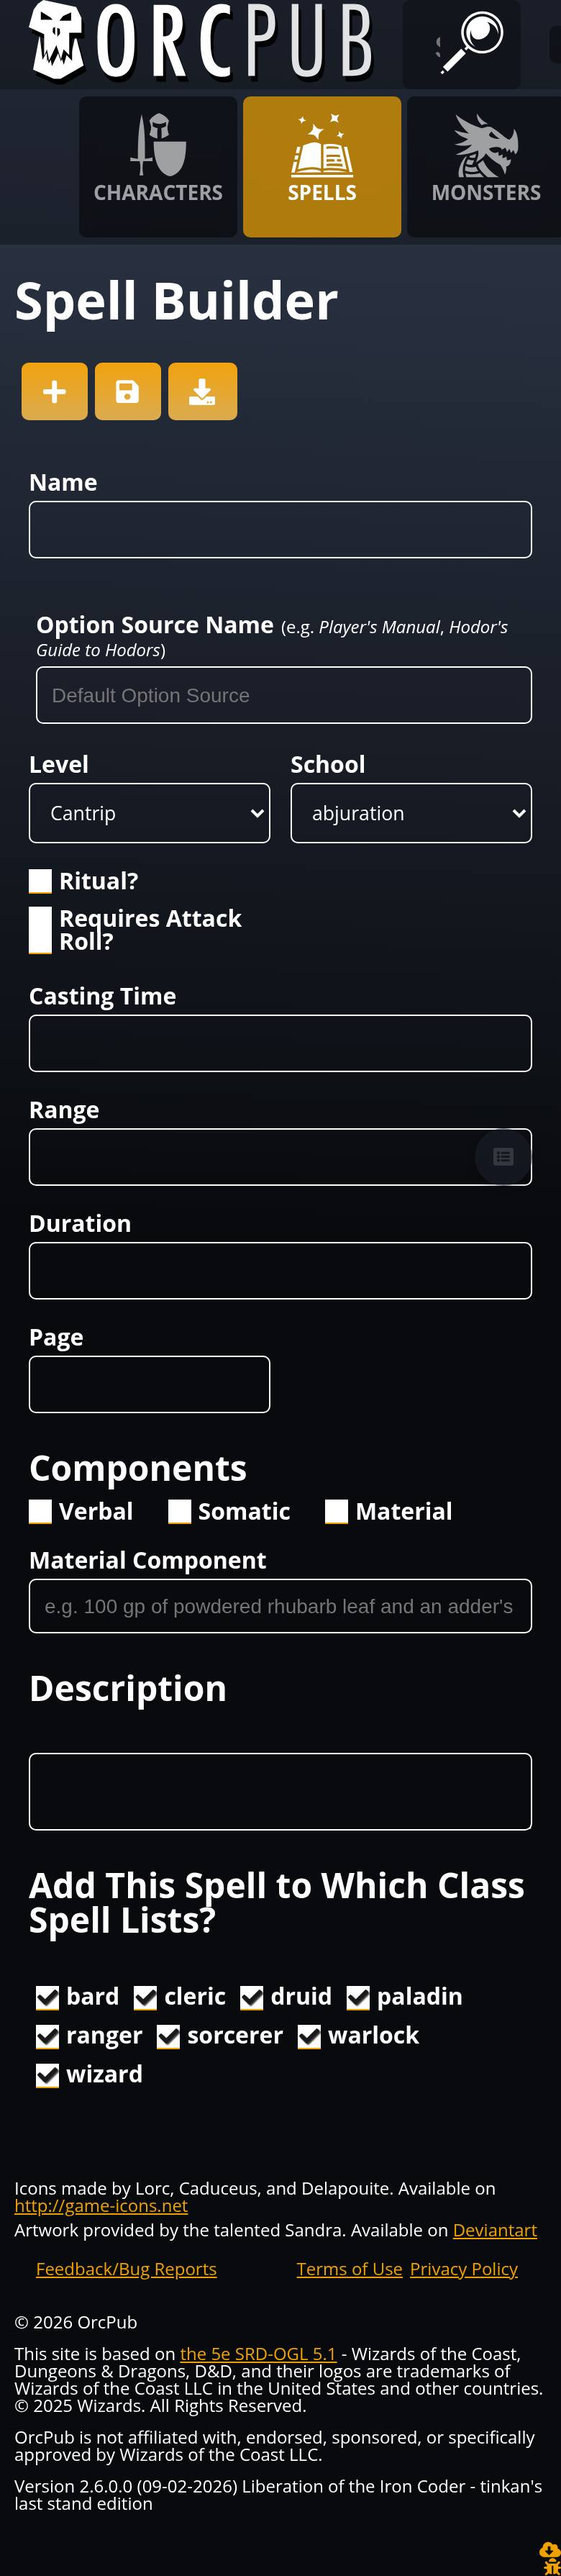
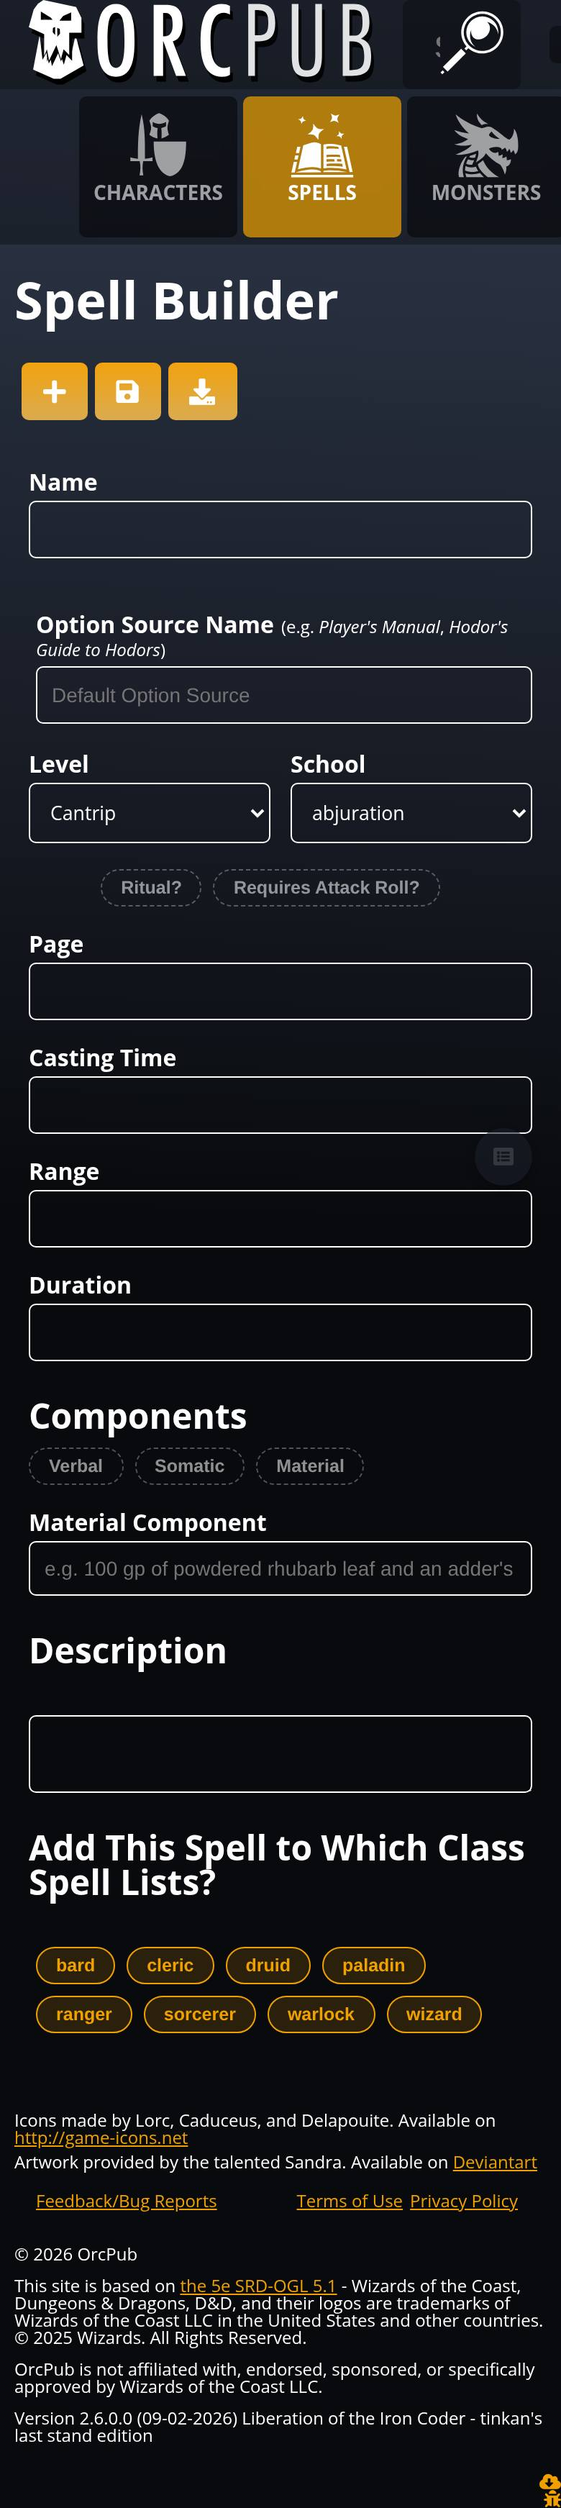
Chips for every toggle; mobile flag row; Page back beside the flags
Page returns to the first row's fourth track. Moving it to trail the stats was
me over-reading a musing about transcription order: it is a minor, optional
field that is not stat-block content, and the squared row reads better than the
empty track its absence leaves. The order of the fields that ARE stat-block
content is unaffected either way.

Every toggle is a chip now. Loose checkbox clusters were the last control
speaking a different visual language — the form says a thing carrying a value
is orange (the add-bar, select.set, the :multi-enum toggles) and eight ragged
class checkboxes did not. :boolean, :multi-enum entries and the spell-list
widget all render the same chip.

The distinction that had to survive it: a toggle chip answers "is this set?", an
add-bar chip answers "do you want to add this?" — same shape, opposite
question. .chip-toggle is muted unset and orange set; a bare .chip is the
action. Chipping every checkbox reintroduced that ambiguity everywhere except
:multi-enum, which already had the rule.

Two things it surfaced rather than caused:

- The spell-list chips read as all-on because they ARE: a new spell defaults to
  all eight class lists. The bespoke form drew the same state as eight ticked
  checkboxes and it was easy to miss. Behaviour unchanged, legibility better.
- The control metric had to follow the representation. It counted
  input/select/textarea plus glyph checkboxes; chips have no glyph, so the
[…]

diff --git a/test/e2e/spell-builder.js b/test/e2e/spell-builder.js
@@ -13,33 +13,15 @@ const path = require('path');
 const fs = require('fs');
 const { chromium } = require('playwright');
 const { BASE, SHOTS, findChrome, checker, dbAt, controlFor, fill, clickText,
-        dismissCookieBar } = require('./lib');
+        dismissCookieBar, chipIsOn, chipClick } = require('./lib');
 
 const SOURCE = 'Spell Pin';
 const NAME = 'Tideward';
 
-// A labelled checkbox: the app renders an <i> glyph plus a text span, in both the bespoke form
-// (comps/labeled-checkbox) and the converted one (the :boolean field renders the same component).
-const toggle = (page, label) => page.evaluate((t) => {
-  const vis = e => { const r = e.getBoundingClientRect(); return r.width > 0 && r.height > 0; };
-  const span = [...document.querySelectorAll('span')]
-    .find(e => e.children.length === 0 && e.textContent.trim() === t && vis(e));
-  if (!span) return false;
-  (span.closest('.pointer') || span.parentElement).click();
-  return true;
-}, label);
-
-const isOn = (page, label) => page.evaluate((t) => {
-  const span = [...document.querySelectorAll('span')]
-    .find(e => e.children.length === 0 && e.textContent.trim() === t);
-  if (!span) return null;
-  const row = span.parentElement;
-  const glyph = row && row.querySelector('i.fa-check');
-  if (!glyph) return null;
-  // "on" is drawn by swapping the glyph's colour classes, not by a checked attribute
-  return /black/.test(glyph.className) && !/transparent/.test(glyph.className);
-}, label);
-
+// Toggles are chips (lib.js/chipIsOn, chipClick). They were glyph checkboxes when this pin was
+// written against the bespoke form; the representation changed deliberately, so the helpers did
+// too. What the pin asserts is unchanged: the toggle is present, starts off, turns on, and stores
+// a real boolean.
 async function choose(page, label, rx) {
   const sel = await controlFor(page, label);
   if (!sel) return false;
@@ -71,8 +53,8 @@ async function choose(page, label, rx) {
       check(`field present: ${label}`, !!(await controlFor(page, label)));
     }
     for (const label of ['Ritual?', 'Requires Attack Roll?']) {
-      check(`toggle present: ${label}`, (await isOn(page, label)) !== null);
-      check(`and it starts OFF: ${label}`, (await isOn(page, label)) === false);
+      check(`toggle present: ${label}`, (await chipIsOn(page, label)) !== null);
+      check(`and it starts OFF: ${label}`, (await chipIsOn(page, label)) === false);
     }
     check('the bespoke spell-list widget is still here',
           /which class spell lists/i.test(await page.locator('#app').innerText()));
@@ -86,9 +68,9 @@ async function choose(page, label, rx) {
     check('filled Duration', await fill(page, 'Duration', '1 minute'));
     check('filled Description', await fill(page, 'Description', 'A ward of cold seawater.'));
 
-    check('toggled Ritual on', await toggle(page, 'Ritual?'));
+    check('toggled Ritual on', await chipClick(page, 'Ritual?'));
     await page.waitForTimeout(400);
-    check('and it now reads ON', (await isOn(page, 'Ritual?')) === true);
+    check('and it now reads ON', (await chipIsOn(page, 'Ritual?')) === true);
 
     await page.screenshot({ path: path.join(SHOTS, 'spell-builder-filled.jpg'),
                             fullPage: true, type: 'jpeg', quality: 72 });

diff --git a/test/e2e/lib.js b/test/e2e/lib.js
@@ -170,4 +170,27 @@ async function pickFromAnySelect(page, rx) {
   return false;
 }
 
-module.exports = { BASE, SHOTS, findChrome, checker, dbAt, controlFor, fill, clickText, clickTab, fillEffectBonus, dismissCookieBar, pickFromAnySelect };
+// Toggles are CHIPS: a button whose text is its label, carrying `chip-on` when set. Replaces the
+// old glyph-checkbox reading (an <i class="fa-check"> whose colour classes encoded the state).
+async function chipIsOn(page, label) {
+  return page.evaluate((t) => {
+    const vis = e => { const r = e.getBoundingClientRect(); return r.width > 0 && r.height > 0; };
+    const b = [...document.querySelectorAll('.chip')].find(e => e.textContent.trim() === t && vis(e));
+    if (!b) return null;
+    return b.classList.contains('chip-on');
+  }, label);
+}
+
+async function chipClick(page, label) {
+  const ok = await page.evaluate((t) => {
+    const vis = e => { const r = e.getBoundingClientRect(); return r.width > 0 && r.height > 0; };
+    const b = [...document.querySelectorAll('.chip')].find(e => e.textContent.trim() === t && vis(e));
+    if (!b) return false;
+    b.click();
+    return true;
+  }, label);
+  if (ok) await page.waitForTimeout(400);
+  return ok;
+}
+
+module.exports = { BASE, SHOTS, findChrome, checker, dbAt, controlFor, fill, clickText, clickTab, fillEffectBonus, dismissCookieBar, pickFromAnySelect, chipIsOn, chipClick };

diff --git a/test/e2e/builder-gallery.js b/test/e2e/builder-gallery.js
@@ -55,7 +55,10 @@ const ONLY = (process.env.ONLY || '').split(',').filter(Boolean);
     const controls = await page.evaluate(() => {
       const vis = e => { const r = e.getBoundingClientRect(); return r.width > 0 && r.height > 0; };
       const fields = [...document.querySelectorAll('#app input, #app select, #app textarea')].filter(vis);
-      const toggles = [...document.querySelectorAll('#app i.fa-check')].filter(vis);
+      // toggles are drawn two ways: a glyph checkbox (the hand-written builders) and a chip (the
+      // generated ones). Count both, or the metric reports a representation change as controls
+      // disappearing — it did, 24 -> 11.
+      const toggles = [...document.querySelectorAll('#app i.fa-check, #app .chip')].filter(vis);
       return fields.length + toggles.length;
     });
     // HEIGHT, not just control count. A conversion that stacks every field into one page-wide

diff --git a/test/e2e/mobile-compare.js b/test/e2e/mobile-compare.js
@@ -41,7 +41,7 @@ const BUILDERS = ONLY.length ? ONLY
       // wider than the viewport and clipped, and counting it reported 32 overflowing elements on
       // every builder — a number that says nothing about the form.
       const form = document.querySelector('#app .p-20.main-text-color') || app;
-      const controls = [...form.querySelectorAll('input, select, textarea')].filter(vis);
+      const controls = [...form.querySelectorAll('input, select, textarea, .chip')].filter(vis);
       // anything sticking out past the viewport is a sideways scroll on a phone
       const over = [...form.querySelectorAll('*')].filter(e => {
         const r = e.getBoundingClientRect();

diff --git a/docs/kb/builder-conversion-gallery.md b/docs/kb/builder-conversion-gallery.md
@@ -495,10 +495,15 @@ and reports what actually breaks on a narrow screen — horizontal overflow, tou
 
 | at 390px | bespoke | generated |
 |---|---:|---:|
-| spell | 1587px, 9 controls | 1790px, 10 |
-| language | 905px | **911px** |
+| spell | 1587px | **1743px** |
+| language | 905px | 911px |
 | draconic ancestry | 1229px | **1202px** |
 | horizontal overflow, all builders | 0 | 0 |
+
+**Two mobile fixes came from looking at it**: the flags now sit **side by side** on a phone rather
+than stacked — a two-word toggle pair reads better across than down on a narrow screen — and only
+`:enum` pairs at 390px, so there are no lone half-width boxes among full-width ones. Both dropped
+the spell form from 1855px to 1743px.
 
 The spell form is **~200px taller on a phone**, and it is accountable rather than mysterious: the
 **Page field** (~85px), a **label on the Material Component box** that the hand-written form left
@@ -530,12 +535,35 @@ were there — the pin asserts 13 / 29 / 29 options — and **nothing on screen 
 fair reading of "I thought we were offering dropdowns". `:combo` inputs now carry the select's
 chevron and the padding to clear it.
 
-### Stat-block order beats a square row
+### Every toggle is a chip
 
-Page was moved up beside the flags to fill the first row's fourth track. That interrupts the order
-an author transcribes in — a stat block reads level/school, casting time, range, components,
-duration — and a page reference is not part of it. **Page trails the stats now.** The row is less
-square and the form is easier to type into from a book, which is the trade worth taking.
+Loose checkbox clusters were the last control still speaking a different visual language. The form
+says *a thing carrying a value is orange* — the add-bar, `select.set`, the `:multi-enum` toggles —
+and eight ragged class checkboxes under *Add This Spell to Which Class Spell Lists?* did not. Every
+`:boolean`, every `:multi-enum` entry and the spell-list widget now render as the same chip.
+
+**The distinction that has to survive it:** a toggle chip answers *"is this set?"*, an add-bar chip
+answers *"do you want to add this?"* — same shape, opposite question. `.chip-toggle` is muted when
+unset and orange when set; a bare `.chip` is the action. Making every checkbox a chip reintroduced
+that ambiguity everywhere except `:multi-enum`, which already had the rule.
+
+Two things this surfaced rather than caused:
+
+- **The spell-list chips read as all-on because they are.** A new spell defaults to all eight class
+  lists. The bespoke form drew the same state as eight ticked checkboxes and it was easy to miss;
+  the chips make it obvious. Behaviour unchanged, legibility better.
+- **The control metric had to follow the representation.** It counted `input, select, textarea` and
+  glyph checkboxes; chips have no glyph, so the count read **24 → 11** the moment toggles changed
+  shape. It counts chips too now. That is the third time a metric on this page missed something
+  because it was written against one particular rendering.
+
+### Page stays beside the flags
+
+It had been moved to trail the stats, to match the order an author transcribes in from a stat block.
+Reverted: Page is a minor, optional field that is not stat-block content at all, and having it fill
+the first row's fourth track reads better than the empty track its absence leaves. The transcription
+order of the fields that *are* stat-block content — level/school, casting time, range, components,
+duration — is unaffected either way.
 
 ### Still open on this pair
 
